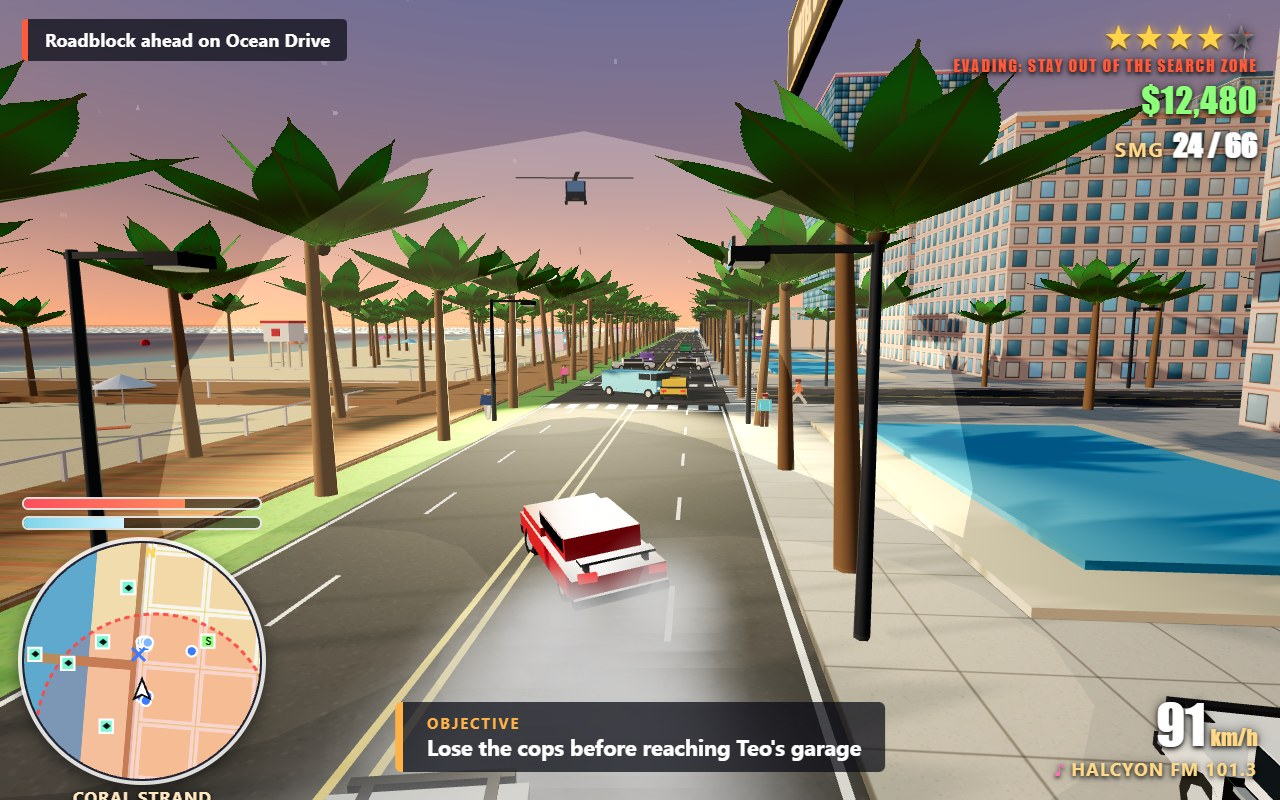
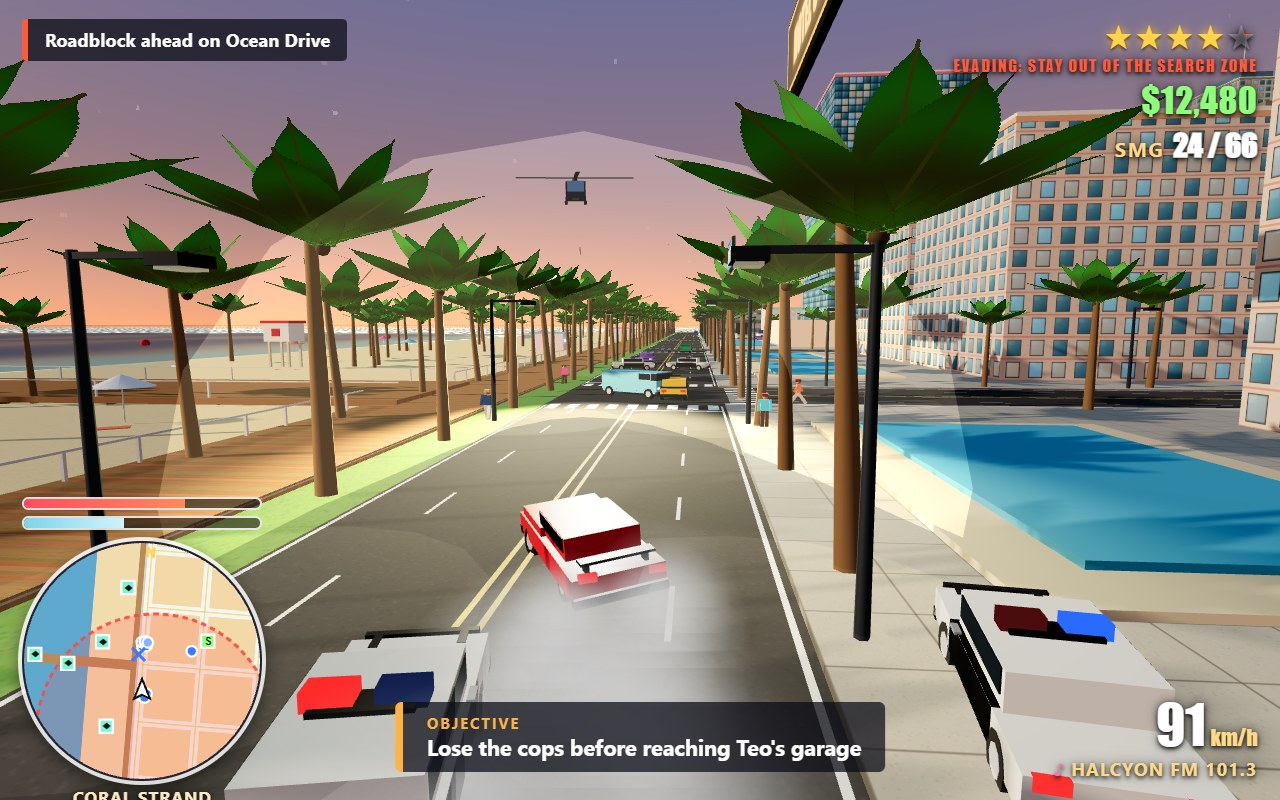
Round 3: cover cruisers in frame, wider aim camera, cleanup of abandoned cars

Changed region(s): [[0.7188, 0.7188, 1.0, 1.0], [0.1562, 0.7812, 0.4375, 1.0]]

diff --git a/game/src/traffic.js b/game/src/traffic.js
@@ -38,7 +38,10 @@ export function createTraffic(layout, fleet, effects) {
           perModel[model] = (perModel[model] || 0) + 1;
           if (perModel[model] > 12) continue;
           const v = fleet.spawn(model, p.x, p.z, Math.atan2(p.dx, p.dz), model === 'taxi' ? '#ffd23f' : prng.pick(PAINTS), 'parked');
-          if (v) parked.push(v);
+          if (v) {
+            v.permanent = true;
+            parked.push(v);
+          }
         }
       }
     }
@@ -48,7 +51,10 @@ export function createTraffic(layout, fleet, effects) {
     for (const [model, color, offset] of [['sedan', '#1f6fd0', 12], ['coupe', '#ffd23f', -14], ['bike', '#e3342f', 24]]) {
       const p = lanePoint(near.edge, true, near.t + offset, LANES.park);
       const v = fleet.spawn(model, p.x, p.z, Math.atan2(p.dx, p.dz), color, 'parked');
-      if (v) parked.push(v);
+      if (v) {
+        v.permanent = true;
+        parked.push(v);
+      }
     }
   };
 
@@ -177,6 +183,11 @@ export function createTraffic(layout, fleet, effects) {
       let count = 0;
       for (let i = fleet.vehicles.length - 1; i >= 0; i -= 1) {
         const v = fleet.vehicles[i];
+        // Abandoned cars (left by Sol, stood-down cruisers, finished mission cars) clear away far off.
+        if ((v.kind === 'parked' || v.kind === 'wreck') && !v.permanent && v.occupant !== 'player' && Math.hypot(v.x - px, v.z - pz) > 330) {
+          fleet.remove(v);
+          continue;
+        }
         if (v.kind !== 'traffic' || !v.ai) continue;
         count += 1;
         const d = Math.hypot(v.x - px, v.z - pz);

diff --git a/game/src/shots.js b/game/src/shots.js
@@ -122,7 +122,7 @@ export function stageShot(name, game) {
         const fz = Math.cos(car.yaw);
         const rx = -fz;
         const rz = fx;
-        const spots = [[-4.6, 9.5, 0.16], [3.6, 11.5, -0.14], [-0.8, 16.5, 0.05]];
+        const spots = [[-4.4, 6.2, 0.18], [3.9, 7.8, -0.16], [-0.9, 11.5, 0.05]];
         cruisers.forEach((c, k) => {
           const [side, back, turn] = spots[k];
           c.x = car.x - fx * back + rx * side;

diff --git a/game/src/config.js b/game/src/config.js
@@ -72,7 +72,7 @@ export const CAMERA = {
   footHeight: 1.9,
   carDistance: 8.5,
   carHeight: 3.2,
-  aimDistance: 2.4,
+  aimDistance: 3.1,
   sensitivity: 0.0022,
   fov: 62,
   near: 0.3,
